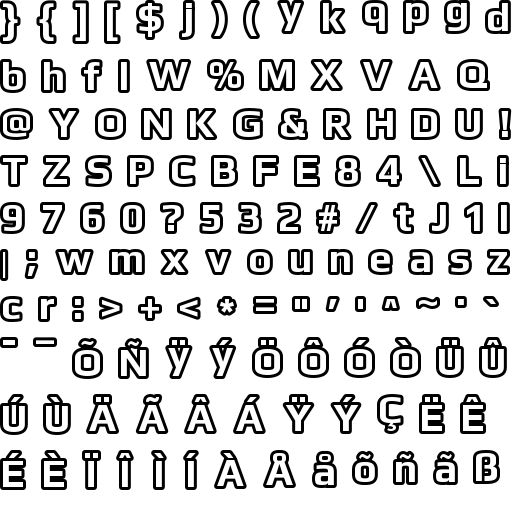
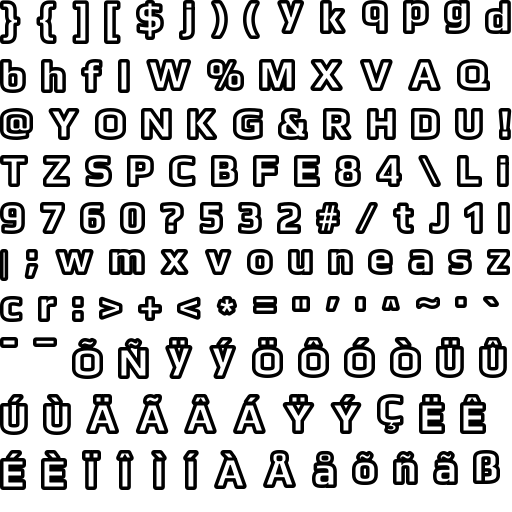
added support for rendering internal border to fix 'i' issue in small Play font
Former-commit-id: b4ed85eef3eec0c93dd226c2c0765c7f60b17454
Former-commit-id: f1d322e0ea8bd0c9f6f1f787fa9692aa8be7bfbf

diff --git a/src/shared/cube2font.c b/src/shared/cube2font.c
@@ -13,6 +13,9 @@ typedef unsigned char uchar;
 typedef unsigned short ushort;
 typedef unsigned int uint;
 
+int imin(int a, int b) { return a < b ? a : b; }
+int imax(int a, int b) { return a > b ? a : b; }
+
 void fatal(const char *fmt, ...)    // failure exit
 {
     va_list v;
@@ -54,99 +57,71 @@ failed:
     fatal("cube2font: failed writing %s", name);
 }
 
-int iscubeprint(int c)
+enum
 {
-    static const char flags[256] =
-    {
-        0, 1, 1, 1, 1, 1, 1, 1, 1, 0, 0, 0, 0, 0, 1, 1,
-        1, 1, 1, 1, 1, 1, 1, 1, 1, 1, 1, 1, 1, 1, 1, 1,
-        0, 1, 1, 1, 1, 1, 1, 1, 1, 1, 1, 1, 1, 1, 1, 1,
-        1, 1, 1, 1, 1, 1, 1, 1, 1, 1, 1, 1, 1, 1, 1, 1,
-        1, 1, 1, 1, 1, 1, 1, 1, 1, 1, 1, 1, 1, 1, 1, 1,
-        1, 1, 1, 1, 1, 1, 1, 1, 1, 1, 1, 1, 1, 1, 1, 1,
-        1, 1, 1, 1, 1, 1, 1, 1, 1, 1, 1, 1, 1, 1, 1, 1,
-        1, 1, 1, 1, 1, 1, 1, 1, 1, 1, 1, 1, 1, 1, 1, 1,
-        1, 1, 1, 1, 1, 1, 1, 1, 1, 1, 1, 1, 1, 1, 1, 1,
-        1, 1, 1, 1, 1, 1, 1, 1, 1, 1, 1, 1, 1, 1, 1, 1,
-        1, 1, 1, 1, 1, 1, 1, 1, 1, 1, 1, 1, 1, 1, 1, 1,
-        1, 1, 1, 1, 1, 1, 1, 1, 1, 1, 1, 1, 1, 1, 1, 1,
-        1, 1, 1, 1, 1, 1, 1, 1, 1, 1, 1, 1, 1, 1, 1, 1,
-        1, 1, 1, 1, 1, 1, 1, 1, 1, 1, 1, 1, 1, 1, 1, 1,
-        1, 1, 1, 1, 1, 1, 1, 1, 1, 1, 1, 1, 1, 1, 1, 1,
-        1, 1, 1, 1, 1, 1, 1, 1, 1, 1, 1, 1, 1, 1, 1, 1
-    };
-    return flags[c];
-}
-
-int cube2uni(int c)
+    CT_PRINT   = 1<<0,
+    CT_SPACE   = 1<<1,
+    CT_DIGIT   = 1<<2,
+    CT_ALPHA   = 1<<3,
+    CT_LOWER   = 1<<4,
+    CT_UPPER   = 1<<5,
+    CT_UNICODE = 1<<6
+};
+#define CUBECTYPE(s, p, d, a, A, u, U) \
+    0, U, U, U, U, U, U, U, U, s, s, s, s, s, U, U, \
+    U, U, U, U, U, U, U, U, U, U, U, U, U, U, U, U, \
+    s, p, p, p, p, p, p, p, p, p, p, p, p, p, p, p, \
+    d, d, d, d, d, d, d, d, d, d, p, p, p, p, p, p, \
+    p, A, A, A, A, A, A, A, A, A, A, A, A, A, A, A, \
+    A, A, A, A, A, A, A, A, A, A, A, p, p, p, p, p, \
+    p, a, a, a, a, a, a, a, a, a, a, a, a, a, a, a, \
+    a, a, a, a, a, a, a, a, a, a, a, p, p, p, p, U, \
+    U, u, u, u, u, u, u, u, u, u, u, u, u, u, u, u, \
+    u, u, u, u, u, u, u, u, u, u, u, u, u, u, u, U, \
+    u, U, u, U, u, U, u, U, u, U, u, U, u, U, u, U, \
+    u, U, u, U, u, U, u, U, u, U, u, U, u, U, u, U, \
+    u, U, u, U, u, U, u, U, U, u, U, u, U, u, U, U, \
+    U, U, U, U, U, U, U, U, U, U, U, U, U, U, U, U, \
+    U, U, U, U, u, u, u, u, u, u, u, u, u, u, u, u, \
+    u, u, u, u, u, u, u, u, u, u, u, u, u, u, U, u
+const uchar cubectype[256] =
 {
-    static const int conv[256] =
-    {
-        0, 192, 193, 194, 195, 196, 197, 198, 199, 9, 10, 11, 12, 13, 200, 201,
-        202, 203, 204, 205, 206, 207, 209, 210, 211, 212, 213, 214, 216, 217, 218, 219,
-        32, 33, 34, 35, 36, 37, 38, 39, 40, 41, 42, 43, 44, 45, 46, 47,
-        48, 49, 50, 51, 52, 53, 54, 55, 56, 57, 58, 59, 60, 61, 62, 63,
-        64, 65, 66, 67, 68, 69, 70, 71, 72, 73, 74, 75, 76, 77, 78, 79,
-        80, 81, 82, 83, 84, 85, 86, 87, 88, 89, 90, 91, 92, 93, 94, 95,
-        96, 97, 98, 99, 100, 101, 102, 103, 104, 105, 106, 107, 108, 109, 110, 111,
-        112, 113, 114, 115, 116, 117, 118, 119, 120, 121, 122, 123, 124, 125, 126, 220,
-        221, 223, 224, 225, 226, 227, 228, 229, 230, 231, 232, 233, 234, 235, 236, 237,
-        238, 239, 241, 242, 243, 244, 245, 246, 248, 249, 250, 251, 252, 253, 255, 0x104,
-        0x105, 0x106, 0x107, 0x10C, 0x10D, 0x10E, 0x10F, 0x118, 0x119, 0x11A, 0x11B, 0x11E, 0x11F, 0x130, 0x131, 0x141,
-        0x142, 0x143, 0x144, 0x147, 0x148, 0x150, 0x151, 0x152, 0x153, 0x158, 0x159, 0x15A, 0x15B, 0x15E, 0x15F, 0x160,
-        0x161, 0x164, 0x165, 0x16E, 0x16F, 0x170, 0x171, 0x178, 0x179, 0x17A, 0x17B, 0x17C, 0x17D, 0x17E, 0x404, 0x411,
-        0x413, 0x414, 0x416, 0x417, 0x418, 0x419, 0x41B, 0x41F, 0x423, 0x424, 0x426, 0x427, 0x428, 0x429, 0x42A, 0x42B,
-        0x42C, 0x42D, 0x42E, 0x42F, 0x431, 0x432, 0x433, 0x434, 0x436, 0x437, 0x438, 0x439, 0x43A, 0x43B, 0x43C, 0x43D,
-        0x43F, 0x442, 0x444, 0x446, 0x447, 0x448, 0x449, 0x44A, 0x44B, 0x44C, 0x44D, 0x44E, 0x44F, 0x454, 0x490, 0x491
-    };
-    return conv[c];
-}
-
-int uni2cube(int c)
+    CUBECTYPE(CT_SPACE,
+              CT_PRINT,
+              CT_PRINT|CT_DIGIT,
+              CT_PRINT|CT_ALPHA|CT_LOWER,
+              CT_PRINT|CT_ALPHA|CT_UPPER,
+              CT_PRINT|CT_UNICODE|CT_ALPHA|CT_LOWER,
+              CT_PRINT|CT_UNICODE|CT_ALPHA|CT_UPPER)
+};
+int iscubeprint(uchar c) { return cubectype[c]&CT_PRINT; }
+int iscubespace(uchar c) { return cubectype[c]&CT_SPACE; }
+int iscubealpha(uchar c) { return cubectype[c]&CT_ALPHA; }
+int iscubealnum(uchar c) { return cubectype[c]&(CT_ALPHA|CT_DIGIT); }
+int iscubelower(uchar c) { return cubectype[c]&CT_LOWER; }
+int iscubeupper(uchar c) { return cubectype[c]&CT_UPPER; }
+const int cube2unichars[256] =
 {
-    static const int offsets[256] =
-    {
-        0, 256, 658, 658, 512, 658, 658, 658, 658, 658, 658, 658, 658, 658, 658, 658, 658, 658, 658, 658, 658, 658, 658, 658, 658, 658, 658, 658, 658, 658, 658, 658,
-        658, 658, 658, 658, 658, 658, 658, 658, 658, 658, 658, 658, 658, 658, 658, 658, 658, 658, 658, 658, 658, 658, 658, 658, 658, 658, 658, 658, 658, 658, 658, 658,
-        658, 658, 658, 658, 658, 658, 658, 658, 658, 658, 658, 658, 658, 658, 658, 658, 658, 658, 658, 658, 658, 658, 658, 658, 658, 658, 658, 658, 658, 658, 658, 658,
-        658, 658, 658, 658, 658, 658, 658, 658, 658, 658, 658, 658, 658, 658, 658, 658, 658, 658, 658, 658, 658, 658, 658, 658, 658, 658, 658, 658, 658, 658, 658, 658,
-        658, 658, 658, 658, 658, 658, 658, 658, 658, 658, 658, 658, 658, 658, 658, 658, 658, 658, 658, 658, 658, 658, 658, 658, 658, 658, 658, 658, 658, 658, 658, 658,
-        658, 658, 658, 658, 658, 658, 658, 658, 658, 658, 658, 658, 658, 658, 658, 658, 658, 658, 658, 658, 658, 658, 658, 658, 658, 658, 658, 658, 658, 658, 658, 658,
-        658, 658, 658, 658, 658, 658, 658, 658, 658, 658, 658, 658, 658, 658, 658, 658, 658, 658, 658, 658, 658, 658, 658, 658, 658, 658, 658, 658, 658, 658, 658, 658,
-        658, 658, 658, 658, 658, 658, 658, 658, 658, 658, 658, 658, 658, 658, 658, 658, 658, 658, 658, 658, 658, 658, 658, 658, 658, 658, 658, 658, 658, 658, 658, 658,
-    };
-    static const int chars[878] =
-    {
-        0, 0, 0, 0, 0, 0, 0, 0, 0, 9, 10, 11, 12, 13, 0, 0, 0, 0, 0, 0, 0, 0, 0, 0, 0, 0, 0, 0, 0, 0, 0, 0,
-        32, 33, 34, 35, 36, 37, 38, 39, 40, 41, 42, 43, 44, 45, 46, 47, 48, 49, 50, 51, 52, 53, 54, 55, 56, 57, 58, 59, 60, 61, 62, 63,
-        64, 65, 66, 67, 68, 69, 70, 71, 72, 73, 74, 75, 76, 77, 78, 79, 80, 81, 82, 83, 84, 85, 86, 87, 88, 89, 90, 91, 92, 93, 94, 95,
-        96, 97, 98, 99, 100, 101, 102, 103, 104, 105, 106, 107, 108, 109, 110, 111, 112, 113, 114, 115, 116, 117, 118, 119, 120, 121, 122, 123, 124, 125, 126, 0,
-        0, 0, 0, 0, 0, 0, 0, 0, 0, 0, 0, 0, 0, 0, 0, 0, 0, 0, 0, 0, 0, 0, 0, 0, 0, 0, 0, 0, 0, 0, 0, 0,
-        0, 0, 0, 0, 0, 0, 0, 0, 0, 0, 0, 0, 0, 0, 0, 0, 0, 0, 0, 0, 0, 0, 0, 0, 0, 0, 0, 0, 0, 0, 0, 0,
-        1, 2, 3, 4, 5, 6, 7, 8, 14, 15, 16, 17, 18, 19, 20, 21, 0, 22, 23, 24, 25, 26, 27, 0, 28, 29, 30, 31, 127, 128, 0, 129,
-        130, 131, 132, 133, 134, 135, 136, 137, 138, 139, 140, 141, 142, 143, 144, 145, 0, 146, 147, 148, 149, 150, 151, 0, 152, 153, 154, 155, 156, 157, 0, 158,
-        0, 0, 0, 0, 159, 160, 161, 162, 0, 0, 0, 0, 163, 164, 165, 166, 0, 0, 0, 0, 0, 0, 0, 0, 167, 168, 169, 170, 0, 0, 171, 172,
-        0, 0, 0, 0, 0, 0, 0, 0, 0, 0, 0, 0, 0, 0, 0, 0, 173, 174, 0, 0, 0, 0, 0, 0, 0, 0, 0, 0, 0, 0, 0, 0,
-        0, 175, 176, 177, 178, 0, 0, 179, 180, 0, 0, 0, 0, 0, 0, 0, 181, 182, 183, 184, 0, 0, 0, 0, 185, 186, 187, 188, 0, 0, 189, 190,
-        191, 192, 0, 0, 193, 194, 0, 0, 0, 0, 0, 0, 0, 0, 195, 196, 197, 198, 0, 0, 0, 0, 0, 0, 199, 200, 201, 202, 203, 204, 205, 0,
-        0, 0, 0, 0, 0, 0, 0, 0, 0, 0, 0, 0, 0, 0, 0, 0, 0, 0, 0, 0, 0, 0, 0, 0, 0, 0, 0, 0, 0, 0, 0, 0,
-        0, 0, 0, 0, 0, 0, 0, 0, 0, 0, 0, 0, 0, 0, 0, 0, 0, 0, 0, 0, 0, 0, 0, 0, 0, 0, 0, 0, 0, 0, 0, 0,
-        0, 0, 0, 0, 0, 0, 0, 0, 0, 0, 0, 0, 0, 0, 0, 0, 0, 0, 0, 0, 0, 0, 0, 0, 0, 0, 0, 0, 0, 0, 0, 0,
-        0, 0, 0, 0, 0, 0, 0, 0, 0, 0, 0, 0, 0, 0, 0, 0, 0, 0, 0, 0, 0, 0, 0, 0, 0, 0, 0, 0, 0, 0, 0, 0,
-        0, 17, 0, 0, 206, 83, 73, 21, 74, 0, 0, 0, 0, 0, 0, 0, 65, 207, 66, 208, 209, 69, 210, 211, 212, 213, 75, 214, 77, 72, 79, 215,
-        80, 67, 84, 216, 217, 88, 218, 219, 220, 221, 222, 223, 224, 225, 226, 227, 97, 228, 229, 230, 231, 101, 232, 233, 234, 235, 236, 237, 238, 239, 111, 240,
-        112, 99, 241, 121, 242, 120, 243, 244, 245, 246, 247, 248, 249, 250, 251, 252, 0, 141, 0, 0, 253, 115, 105, 145, 106, 0, 0, 0, 0, 0, 0, 0,
-        0, 0, 0, 0, 0, 0, 0, 0, 0, 0, 0, 0, 0, 0, 0, 0, 0, 0, 0, 0, 0, 0, 0, 0, 0, 0, 0, 0, 0, 0, 0, 0,
-        0, 0, 0, 0, 0, 0, 0, 0, 0, 0, 0, 0, 0, 0, 0, 0, 254, 255, 0, 0, 0, 0, 0, 0, 0, 0, 0, 0, 0, 0, 0, 0,
-        0, 0, 0, 0, 0, 0, 0, 0, 0, 0, 0, 0, 0, 0, 0, 0, 0, 0, 0, 0, 0, 0, 0, 0, 0, 0, 0, 0, 0, 0, 0, 0,
-        0, 0, 0, 0, 0, 0, 0, 0, 0, 0, 0, 0, 0, 0, 0, 0, 0, 0, 0, 0, 0, 0, 0, 0, 0, 0, 0, 0, 0, 0, 0, 0,
-        0, 0, 0, 0, 0, 0, 0, 0, 0, 0, 0, 0, 0, 0, 0, 0, 0, 0, 0, 0, 0, 0, 0, 0, 0, 0, 0, 0, 0, 0, 0, 0,
-        0, 0, 0, 0, 0, 0, 0, 0, 0, 0, 0, 0, 0, 0, 0, 0, 0, 0, 0, 0, 0, 0, 0, 0, 0, 0, 0, 0, 0, 0, 0, 0,
-        0, 0, 0, 0, 0, 0, 0, 0, 0, 0, 0, 0, 0, 0, 0, 0, 0, 0, 0, 0, 0, 0, 0, 0, 0, 0, 0, 0, 0, 0, 0, 0,
-        0, 0, 0, 0, 0, 0, 0, 0, 0, 0, 0, 0, 0, 0, 0, 0, 0, 0, 0, 0, 0, 0, 0, 0, 0, 0, 0, 0, 0, 0, 0, 0,
-        0, 0, 0, 0, 0, 0, 0, 0, 0, 0, 0, 0, 0, 0
-    };
-    return ((uint)c) <= 0xFFFF ? chars[offsets[c>>8] + (c&0xFF)] : 0;
+    0, 192, 193, 194, 195, 196, 197, 198, 199, 9, 10, 11, 12, 13, 200, 201,
+    202, 203, 204, 205, 206, 207, 209, 210, 211, 212, 213, 214, 216, 217, 218, 219,
+    32, 33, 34, 35, 36, 37, 38, 39, 40, 41, 42, 43, 44, 45, 46, 47,
+    48, 49, 50, 51, 52, 53, 54, 55, 56, 57, 58, 59, 60, 61, 62, 63,
+    64, 65, 66, 67, 68, 69, 70, 71, 72, 73, 74, 75, 76, 77, 78, 79,
+    80, 81, 82, 83, 84, 85, 86, 87, 88, 89, 90, 91, 92, 93, 94, 95,
+    96, 97, 98, 99, 100, 101, 102, 103, 104, 105, 106, 107, 108, 109, 110, 111,
+    112, 113, 114, 115, 116, 117, 118, 119, 120, 121, 122, 123, 124, 125, 126, 220,
+    221, 223, 224, 225, 226, 227, 228, 229, 230, 231, 232, 233, 234, 235, 236, 237,
+    238, 239, 241, 242, 243, 244, 245, 246, 248, 249, 250, 251, 252, 253, 255, 0x104,
+    0x105, 0x106, 0x107, 0x10C, 0x10D, 0x10E, 0x10F, 0x118, 0x119, 0x11A, 0x11B, 0x11E, 0x11F, 0x130, 0x131, 0x141,
+    0x142, 0x143, 0x144, 0x147, 0x148, 0x150, 0x151, 0x152, 0x153, 0x158, 0x159, 0x15A, 0x15B, 0x15E, 0x15F, 0x160,
+    0x161, 0x164, 0x165, 0x16E, 0x16F, 0x170, 0x171, 0x178, 0x179, 0x17A, 0x17B, 0x17C, 0x17D, 0x17E, 0x404, 0x411,
+    0x413, 0x414, 0x416, 0x417, 0x418, 0x419, 0x41B, 0x41F, 0x423, 0x424, 0x426, 0x427, 0x428, 0x429, 0x42A, 0x42B,
+    0x42C, 0x42D, 0x42E, 0x42F, 0x431, 0x432, 0x433, 0x434, 0x436, 0x437, 0x438, 0x439, 0x43A, 0x43B, 0x43C, 0x43D,
+    0x43F, 0x442, 0x444, 0x446, 0x447, 0x448, 0x449, 0x44A, 0x44B, 0x44C, 0x44D, 0x44E, 0x44F, 0x454, 0x490, 0x491
+};
+int cube2uni(uchar c)
+{
+    return cube2unichars[c];
 }
 
 const char *encodeutf8(int uni)
@@ -169,7 +144,7 @@ uni1: *dst++ = '\0';
     return buf;
 }
 
-struct fontchar { int code, uni, tex, x, y, w, h, offx, offy, advance; FT_BitmapGlyph color, alpha; };
+struct fontchar { int code, uni, tex, x, y, w, h, offx, offy, offset, advance; FT_BitmapGlyph color, alpha; };
 
 const char *texdir = "";
 
@@ -204,7 +179,7 @@ void writetexs(const char *name, struct fontchar *chars, int numchars, int numte
             int x, y;
             if(c->tex != tex) continue;
             texchars++;
-            dst = &pixels[2*((c->y + c->alpha->top - c->color->top)*tw + c->x + c->color->left - c->alpha->left)];
+            dst = &pixels[2*((c->y + c->offy - c->color->top)*tw + c->x + c->color->left - c->offx)];
             src = (uchar *)c->color->bitmap.buffer;
             for(y = 0; y < c->color->bitmap.rows; y++)
             {
@@ -213,7 +188,7 @@ void writetexs(const char *name, struct fontchar *chars, int numchars, int numte
                 src += c->color->bitmap.pitch;
                 dst += 2*tw;
             }
-            dst = &pixels[2*(c->y*tw + c->x)];
+            dst = &pixels[2*((c->y + c->offy - c->alpha->top)*tw + c->x + c->alpha->left - c->offx)];
             src = (uchar *)c->alpha->bitmap.buffer;
             for(y = 0; y < c->alpha->bitmap.rows; y++)
             {
@@ -265,9 +240,9 @@ void writecfg(const char *name, struct fontchar *chars, int numchars, int x1, in
             lasttex = c->tex;
         }
         if(c->code != c->uni)
-            fprintf(f, "fontchar %d %d %d %d %d %d %d // %s (%d -> 0x%X)\n", c->x, c->y, c->w, c->h, c->offx, y2-c->offy, c->advance, encodeutf8(c->uni), c->code, c->uni);
+            fprintf(f, "fontchar %d %d %d %d %d %d %d // %s (%d -> 0x%X)\n", c->x, c->y, c->w, c->h, c->offx+c->offset, y2-c->offy, c->advance, encodeutf8(c->uni), c->code, c->uni);
         else
-            fprintf(f, "fontchar %d %d %d %d %d %d %d // %s (%d)\n", c->x, c->y, c->w, c->h, c->offx, y2-c->offy, c->advance, encodeutf8(c->uni), c->code);
+            fprintf(f, "fontchar %d %d %d %d %d %d %d // %s (%d)\n", c->x, c->y, c->w, c->h, c->offx+c->offset, y2-c->offy, c->advance, encodeutf8(c->uni), c->code);
         lastcode++;
     }
     fclose(f);
@@ -300,15 +275,15 @@ int main(int argc, char **argv)
 {
     FT_Library l;
     FT_Face f;
-    FT_Stroker s;
+    FT_Stroker s, s2;
     int i, pad, offset, advance, w, h, tw, th, c, rw = 0, rh = 0, ry = 0, x1 = INT_MAX, x2 = INT_MIN, y1 = INT_MAX, y2 = INT_MIN, w2 = 0, h2 = 0, sw = 0, sh = 0;
-    float border;
+    float outborder = 0, inborder = 0;
     struct fontchar chars[256];
     struct fontchar *order[256];
     int numchars = 0, numtex = 0;
     if(argc < 11)
-        fatal("Usage: cube2font infile outfile border pad offset advance charwidth charheight texwidth texheight [spacewidth spaceheight texdir]");
-    border = atof(argv[3]);
+        fatal("Usage: cube2font infile outfile outborder[:inborder] pad offset advance charwidth charheight texwidth texheight [spacewidth spaceheight texdir]");
+    sscanf(argv[3], "%f:%f", &outborder, &inborder);
     pad = atoi(argv[4]);
     offset = atoi(argv[5]);
     advance = atoi(argv[6]);
@@ -324,9 +299,11 @@ int main(int argc, char **argv)
     if(FT_New_Face(l, argv[1], 0, &f) ||
        FT_Set_Charmap(f, f->charmaps[0]) ||
        FT_Set_Pixel_Sizes(f, w, h) ||
-       FT_Stroker_New(l, &s))
+       FT_Stroker_New(l, &s) ||
+       FT_Stroker_New(l, &s2))
         fatal("cube2font: failed loading font %s", argv[1]);
-    FT_Stroker_Set(s, (FT_Fixed)(border * 64), FT_STROKER_LINECAP_ROUND, FT_STROKER_LINEJOIN_ROUND, 0);
+    if(outborder > 0) FT_Stroker_Set(s, (FT_Fixed)(outborder * 64), FT_STROKER_LINECAP_ROUND, FT_STROKER_LINEJOIN_ROUND, 0);
+    if(inborder > 0) FT_Stroker_Set(s2, (FT_Fixed)(inborder * 64), FT_STROKER_LINECAP_ROUND, FT_STROKER_LINEJOIN_ROUND, 0);
     for(c = 0; c < 256; c++) if(iscubeprint(c))
     {
         FT_Glyph p, p2;
@@ -338,17 +315,19 @@ int main(int argc, char **argv)
             fatal("cube2font: failed loading character %s", encodeutf8(dst->uni));
         FT_Get_Glyph(f->glyph, &p);
         p2 = p;
-        FT_Glyph_StrokeBorder(&p, s, 0, 0);
+        if(outborder > 0) FT_Glyph_StrokeBorder(&p, s, 0, 0);
+        if(inborder > 0) FT_Glyph_StrokeBorder(&p2, s2, 1, 0);
         FT_Glyph_To_Bitmap(&p, FT_RENDER_MODE_NORMAL, 0, 1);
         FT_Glyph_To_Bitmap(&p2, FT_RENDER_MODE_NORMAL, 0, 1);
         b = (FT_BitmapGlyph)p;
         b2 = (FT_BitmapGlyph)p2;
         dst->tex = -1;
-        dst->offx = b->left + offset;
-        dst->offy = b->top;
+        dst->offx = imin(b->left, b2->left);
+        dst->offy = imax(b->top, b2->top);
+        dst->offset = offset;
         dst->advance = offset + ((p->advance.x+0xFFFF)>>16) + advance;
-        dst->w = b->bitmap.width;
-        dst->h = b->bitmap.rows;
+        dst->w = imax(b->left + b->bitmap.width, b2->left + b2->bitmap.width) - dst->offx;
+        dst->h = dst->offy - imin(b->top - b->bitmap.rows, b2->top - b2->bitmap.rows);
         dst->alpha = b;
         dst->color = b2;
         order[numchars++] = dst;
@@ -356,7 +335,6 @@ int main(int argc, char **argv)
     qsort(order, numchars, sizeof(order[0]), sortchars);
     for(i = 0; i < numchars; i++)
     {
-        FT_BitmapGlyph b;
         struct fontchar *dst = order[i];
         int j, g;
         if(dst->tex >= 0) continue;
@@ -366,15 +344,14 @@ int main(int argc, char **argv)
             struct fontchar *fit = order[j];
             if(groupchar(fit->uni) != g) break;
             if(fit->tex >= 0) continue;
-            if(rw + fit->alpha->bitmap.width <= tw && ry + fit->alpha->bitmap.rows <= th) { dst = fit; break; }
+            if(rw + fit->w <= tw && ry + fit->h <= th) { dst = fit; break; }
         }
-        b = dst->alpha;
-        if(rw + b->bitmap.width > tw)
+        if(rw + dst->w > tw)
         {
             ry += rh + pad;
             rw = rh = 0;
         }
-        if(ry + b->bitmap.rows > th)
+        if(ry + dst->h > th)
         {
             ry = rw = rh = 0;
             numtex++;
@@ -382,14 +359,14 @@ int main(int argc, char **argv)
         dst->tex = numtex;
         dst->x = rw;
         dst->y = ry;
-        rw += b->bitmap.width + pad;
-        if(b->bitmap.rows > rh) rh = b->bitmap.rows;
-        if(b->top - b->bitmap.rows < y1) y1 = b->top - b->bitmap.rows;
-        if(b->top > y2) y2 = b->top;
-        if(b->left < x1) x1 = b->left;
-        if(b->left + b->bitmap.width > x2) x2 = b->left + b->bitmap.width;
-        if(b->bitmap.width > w2) w2 = b->bitmap.width;
-        if(b->bitmap.rows > h2) h2 = b->bitmap.rows;
+        rw += dst->w + pad;
+        rh = imax(rh, dst->h);
+        y1 = imin(y1, dst->offy - dst->h);
+        y2 = imax(y2, dst->offy);
+        x1 = imin(x1, dst->offx);
+        x2 = imax(x2, dst->offx + dst->w);
+        w2 = imax(w2, dst->w);
+        h2 = imax(h2, dst->h);
         if(dst != order[i]) --i;
     }
     if(rh > 0) numtex++;
@@ -411,6 +388,7 @@ int main(int argc, char **argv)
         FT_Done_Glyph((FT_Glyph)chars[i].color);
     }
     FT_Stroker_Done(s);
+    FT_Stroker_Done(s2);
     FT_Done_FreeType(l);
     printf("cube2font: (%d, %d) .. (%d, %d) = (%d, %d) / (%d, %d), %d texs\n", x1, y1, x2, y2, x2 - x1, y2 - y1, w2, h2, numtex);
     return EXIT_SUCCESS;
